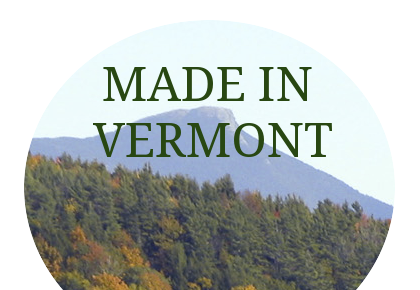
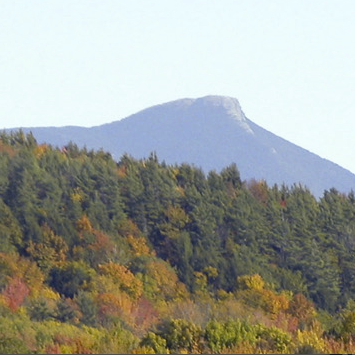
commiting footer badge

diff --git a/apps/static_pages/static/css/static_pages.css b/apps/static_pages/static/css/static_pages.css
@@ -191,8 +191,30 @@ h1.flag {
   background: rgba(255, 255, 255, 0.7);
 }
 .footer-badge {
-  display: block;
-  margin-left: 85%;
+  position: relative;
+  margin-left: 88%;
+  margin-bottom: -30px;
+  z-index: -1;
+}
+.footer-stamp {
+  position: relative;
+  margin-left: 86%;
+  margin-bottom: -40px;
+  background-color: rgba(0, 0, 0, 0.3);
+  padding-left: 10px;
+  padding-top: 5px;
+  padding-bottom: 5px;
+  color: white;
+  font-size: 24px;
+  line-height: 28px;
+  width: 130px;
+  -webkit-transform: rotate(350deg);
+  -moz-transform: rotate(45deg);
+  -o-transform: rotate(45deg);
+  -ms-transform: rotate(275deg);
+  transform: rotate(275deg);
+  font-family: 'Average' serif;
+  -webkit-text-stroke: 0.005em black;
 }
 .homepage-row {
   text-align: center;
@@ -202,7 +224,6 @@ h1.flag {
 }
 .homepage-row:last-child {
   margin-top: 30px;
-  margin-bottom: 100px;
 }
 .homepage-row p {
   text-align: justify;
@@ -277,7 +298,7 @@ h1.flag {
 .learn-more-link {
   text-align: center;
   padding-top: 40px;
-  padding-bottom: 100px;
+  padding-bottom: 40px;
 }
 .learn-more-link a {
   font-size: 16px;

diff --git a/apps/static_pages/templates/static_pages_base.html b/apps/static_pages/templates/static_pages_base.html
@@ -1,7 +1,9 @@
 {% extends 'base.html' %}
 {% load static from staticfiles %}
 
-{% block css %}<link type="text/css" rel="stylesheet" href="{% static 'css/static_pages.css' %}"/>{% endblock %}
+{% block css %}<link type="text/css" rel="stylesheet" href="{% static 'css/static_pages.css' %}"/>
+<link href='http://fonts.googleapis.com/css?family=Average' rel='stylesheet' type='text/css'>
+{% endblock %}
 
 {% block js %}<script src="https://maps.googleapis.com/maps/api/js?key=AIzaSyBuRtB1F8XVtV22jQ3dkGQPqWCKQz4suJ0&sensor=false"></script>
 <script type="text/javascript" src="{% static 'js/static_pages.js' %}"></script>

diff --git a/apps/rocketlistings/templates/partials/footer.html b/apps/rocketlistings/templates/partials/footer.html
@@ -1,5 +1,5 @@
-
-	<img src="{{STATIC_URL}}/img/vtbadge.png" width="150" class="footer-badge">
+<div class ="footer-stamp">MADE IN VERMONT</div>
+<img src="{{STATIC_URL}}/img/vtbadge.png" width="150" class="img-circle footer-badge">
 
 <div class="footer">
 	<div class="container">
